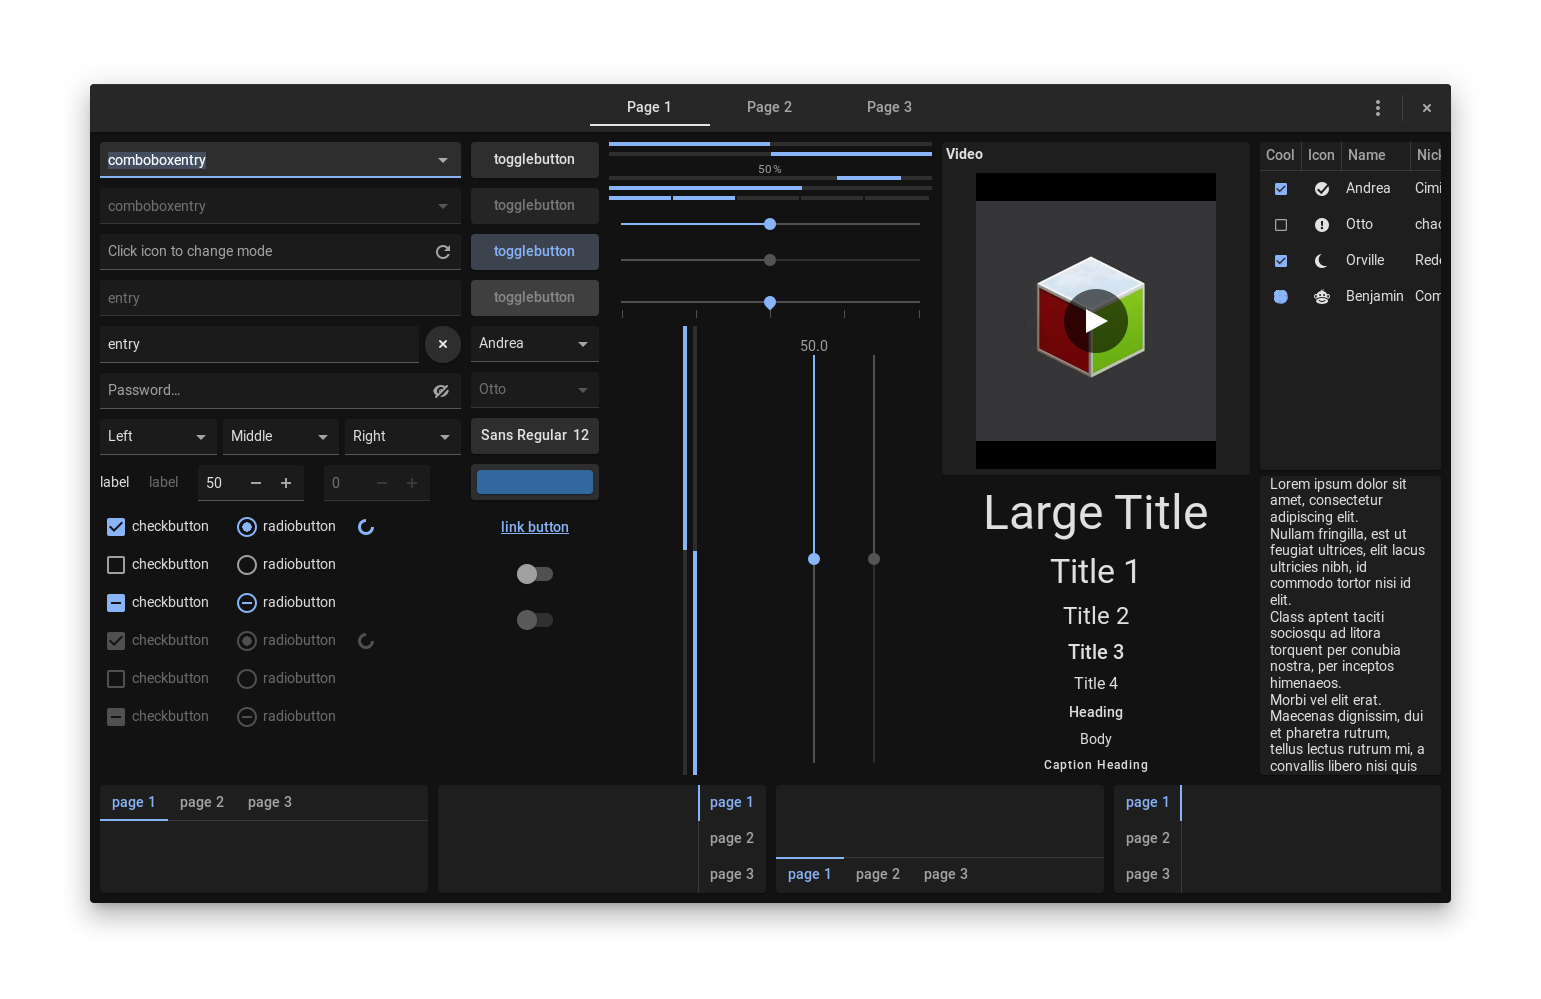
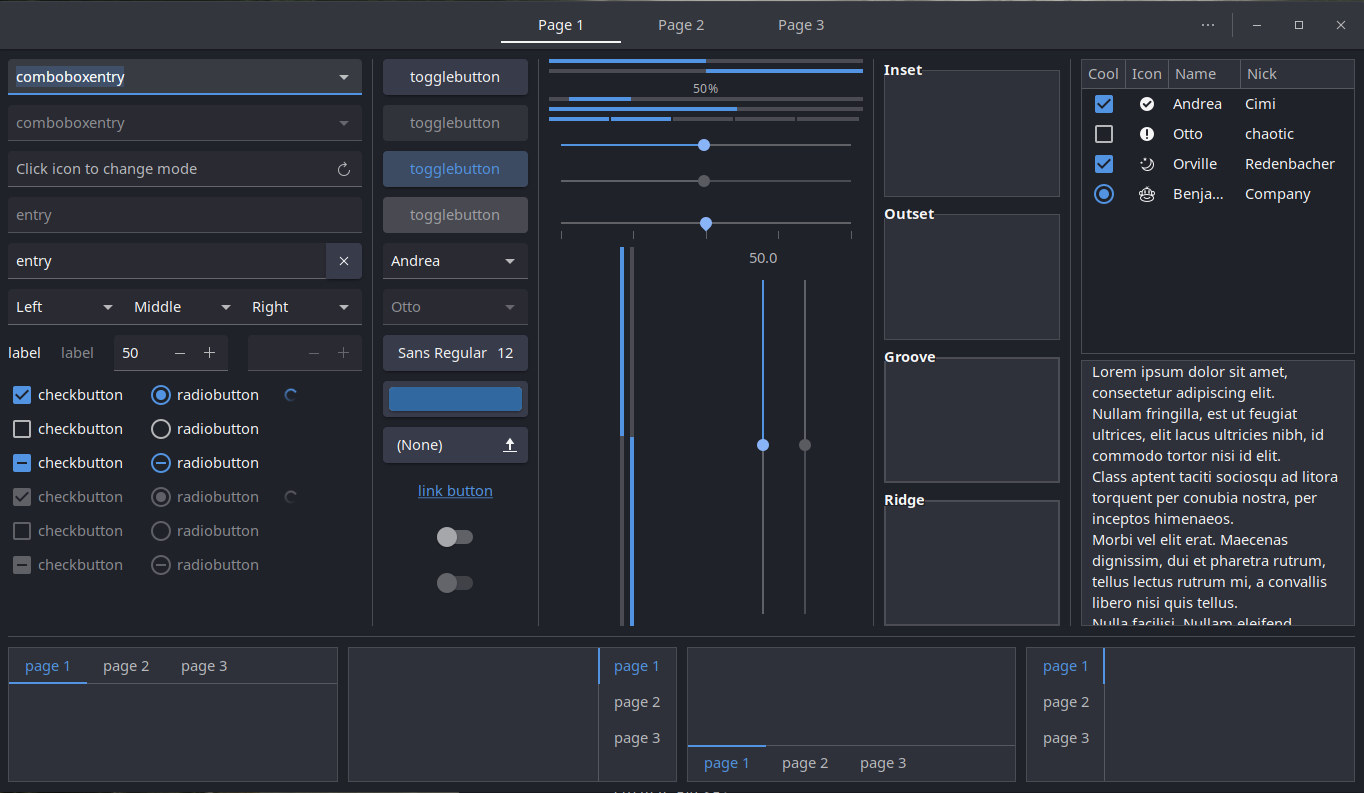
Update main images

diff --git a/README.md b/README.md
@@ -1,15 +1,13 @@
 # Pocillo GTK Theme
 
-**Work in progress**
-
 Pocillo is a [Material Design](https://material.io) theme for the Budgie Desktop.
 
 It supports GTK 2, GTK 3, GTK 4, Budgie, LightDM, Chrome theming.
 
 ## Previews
 
-![widget-factory](images/widget-factory.png?raw=true)  To Be Updated
-![widget-factory-dark](images/widget-factory-dark.png?raw=true) To Be Updated
+![widget-factory](images/widget-factory.png?raw=true)
+![widget-factory-dark](images/widget-factory-dark.png?raw=true)
 
 ## Features
 
@@ -56,12 +54,6 @@ To improve the appearance of Chrome, you can install the Chrome extensions as fo
 
 1. Open the `/usr/share/themes/Pocillo<-variant>/chrome` folder in your file manager.
 2. Drag and drop the `.crx` files into the Chrome's Extensions page (`chrome://extensions`).
-
-## Customization
-
-Pocillo can be customized with GUI application, [**oomox theme designer**](https://github.com/themix-project/oomox).
-
-Pocillo also allows you to change the color scheme relatively easily in other ways. See [`HACKING.md`](HACKING.md#how-to-change-the-color-scheme) for details.
 
 ## Contributing
 
